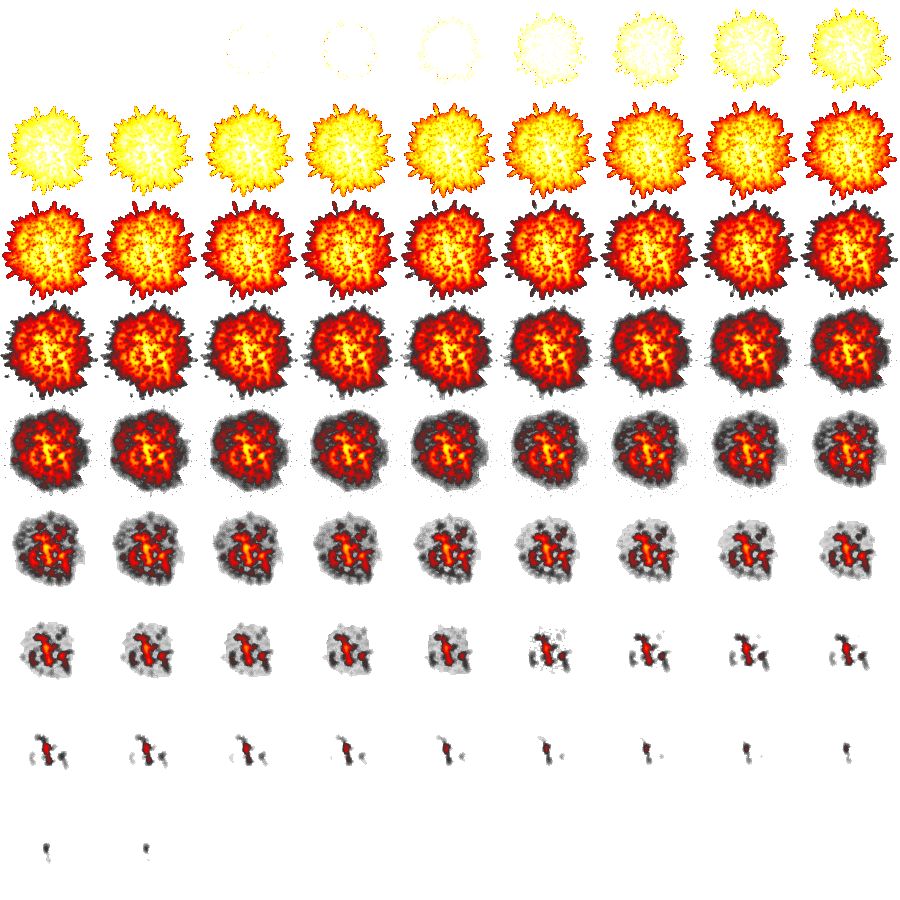
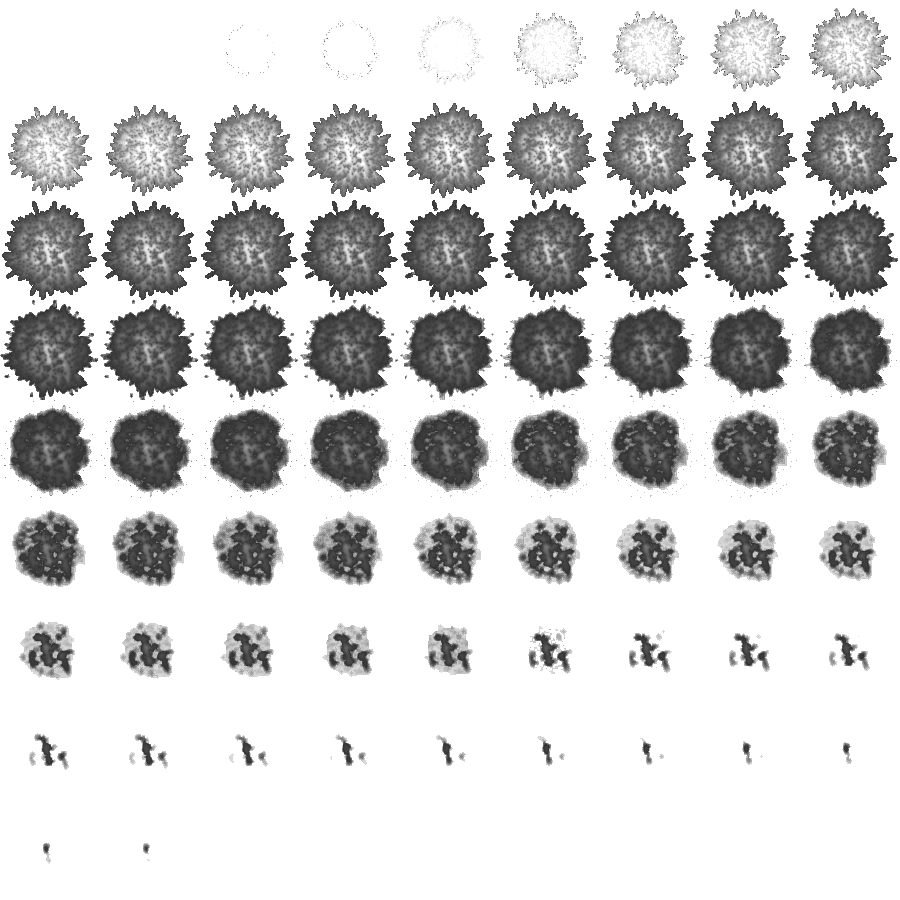
Finish animation support...
and color coordinate explosions

diff --git a/MPTanks-MK5/Engine/Rendering/Animations/Animation.cs b/MPTanks-MK5/Engine/Rendering/Animations/Animation.cs
@@ -18,12 +18,13 @@ namespace MPTanks.Engine.Rendering.Animations
         public Vector2 Position { get; set; }
         public Vector2 Size { get; set; }
         public float Rotation { get; set; }
+        public Vector2 RotationOrigin { get; set; }
         public SpriteInfo SpriteInfo { get; set; }
         public Action<Animation> CompletionCallback { get; private set; }
         public int DrawLayer { get; set; }
         public Color Mask { get; set; }
 
-        public Animation(SpriteInfo spriteInfo, Vector2 center, Vector2 size, Color? mask, Action<Animation> callback = null, int drawLayer = 0)
+        public Animation(SpriteInfo spriteInfo, Vector2 center, Vector2 size, Color? mask = null, Vector2? rotationOrigin = null, Action<Animation> callback = null, int drawLayer = 0)
         {
             Position = center;
             SpriteInfo = spriteInfo;
@@ -31,6 +32,7 @@ namespace MPTanks.Engine.Rendering.Animations
             CompletionCallback = callback;
             DrawLayer = drawLayer;
             Mask = mask ?? Color.White;
+            RotationOrigin = rotationOrigin ?? Size / 2;
         }
     }
 }

diff --git a/MPTanks-MK5/Client/GameSandbox/GameClient.cs b/MPTanks-MK5/Client/GameSandbox/GameClient.cs
@@ -153,8 +153,6 @@ namespace MPTanks.Client.GameSandbox
                 );
             game.Authoritative = true;
             game.FriendlyFireEnabled = true;
-            if (_gcRenderer != null) _gcRenderer.Dispose();
-            _gcRenderer = new GameCoreRenderer(this, game, GameSettings.Instance.AssetSearchPaths, new[] { 0 });
 
             player1 = new NetworkPlayer()
             {
@@ -166,10 +164,17 @@ namespace MPTanks.Client.GameSandbox
             };
             game.AddPlayer(player1);
             game.AddPlayer(player2);
+
+            for(var i = 0; i < 5; i++)
+            {
+                game.AddPlayer(new NetworkPlayer { Id = Guid.NewGuid() });
+            }
             //Set up rendering
             if (renderer != null)
                 renderer.Destroy();
             renderer = new GameWorldRenderer(currentScreen, game);
+            if (_gcRenderer != null) _gcRenderer.Dispose();
+            _gcRenderer = new GameCoreRenderer(this, game, GameSettings.Instance.AssetSearchPaths, new[] { 0 });
         }
 
         /// <summary>

diff --git a/MPTanks-MK5/Client/Backend/Renderer/PreProcessorTypes/AnimationPreProcessor.cs b/MPTanks-MK5/Client/Backend/Renderer/PreProcessorTypes/AnimationPreProcessor.cs
@@ -30,8 +30,9 @@ namespace MPTanks.Client.Backend.Renderer.PreProcessorTypes
                 Compositor.AddDrawable(new DrawableObject
                 {
                     Mask = animation.Mask,
-                    ObjectRotation = animation.Rotation,
+                    Rotation = animation.Rotation,
                     Size = animation.Size,
+                    RotationOrigin = animation.RotationOrigin,
                     Scale = new Vector2(1),
                     Position = animation.Position,
                     Rectangle = new Engine.Core.RectangleF(0, 0, animation.Size.X, animation.Size.Y),

diff --git a/MPTanks-MK5/CoreAssets/Tanks/BasicTank.cs b/MPTanks-MK5/CoreAssets/Tanks/BasicTank.cs
@@ -88,6 +88,7 @@ namespace MPTanks.CoreAssets.Tanks
                 WeaponRechargeTimeMs = 3000,
                 FireCallback = (w, p) => InvokeTrigger("tertiary_fired")
             };
+            Animations["death_explosion"].Mask = ColorMask;
         }
 
         protected override void UpdateInternal(GameTime time)
@@ -100,8 +101,6 @@ namespace MPTanks.CoreAssets.Tanks
             }
             base.UpdateInternal(time);
         }
-        
-
         protected override void ReceiveStateDataInternal(string state)
         {
         }

diff --git a/MPTanks-MK5/Engine/GameObject.Components.JSON.cs b/MPTanks-MK5/Engine/GameObject.Components.JSON.cs
@@ -507,6 +507,7 @@ namespace MPTanks.Engine.Serialization
         public float Rotation { get; set; }
         public JSONVector Size { get; set; }
         public JSONColor Mask { get; set; }
+        public JSONVector RotationOrigin { get; set; }
         public int DrawLayer { get; set; }
         public float StartPositionMs { get; set; }
     }

diff --git a/MPTanks-MK5/Engine/GameObject.Components.cs b/MPTanks-MK5/Engine/GameObject.Components.cs
@@ -324,6 +324,7 @@ namespace MPTanks.Engine
                     TransformPoint(anim.Position),
                     anim.Size,
                     anim.Mask ?? Color.White,
+                    anim.RotationOrigin ?? ((Vector2)anim.Size) / 2,
                     null,
                     anim.DrawLayer
                     );
